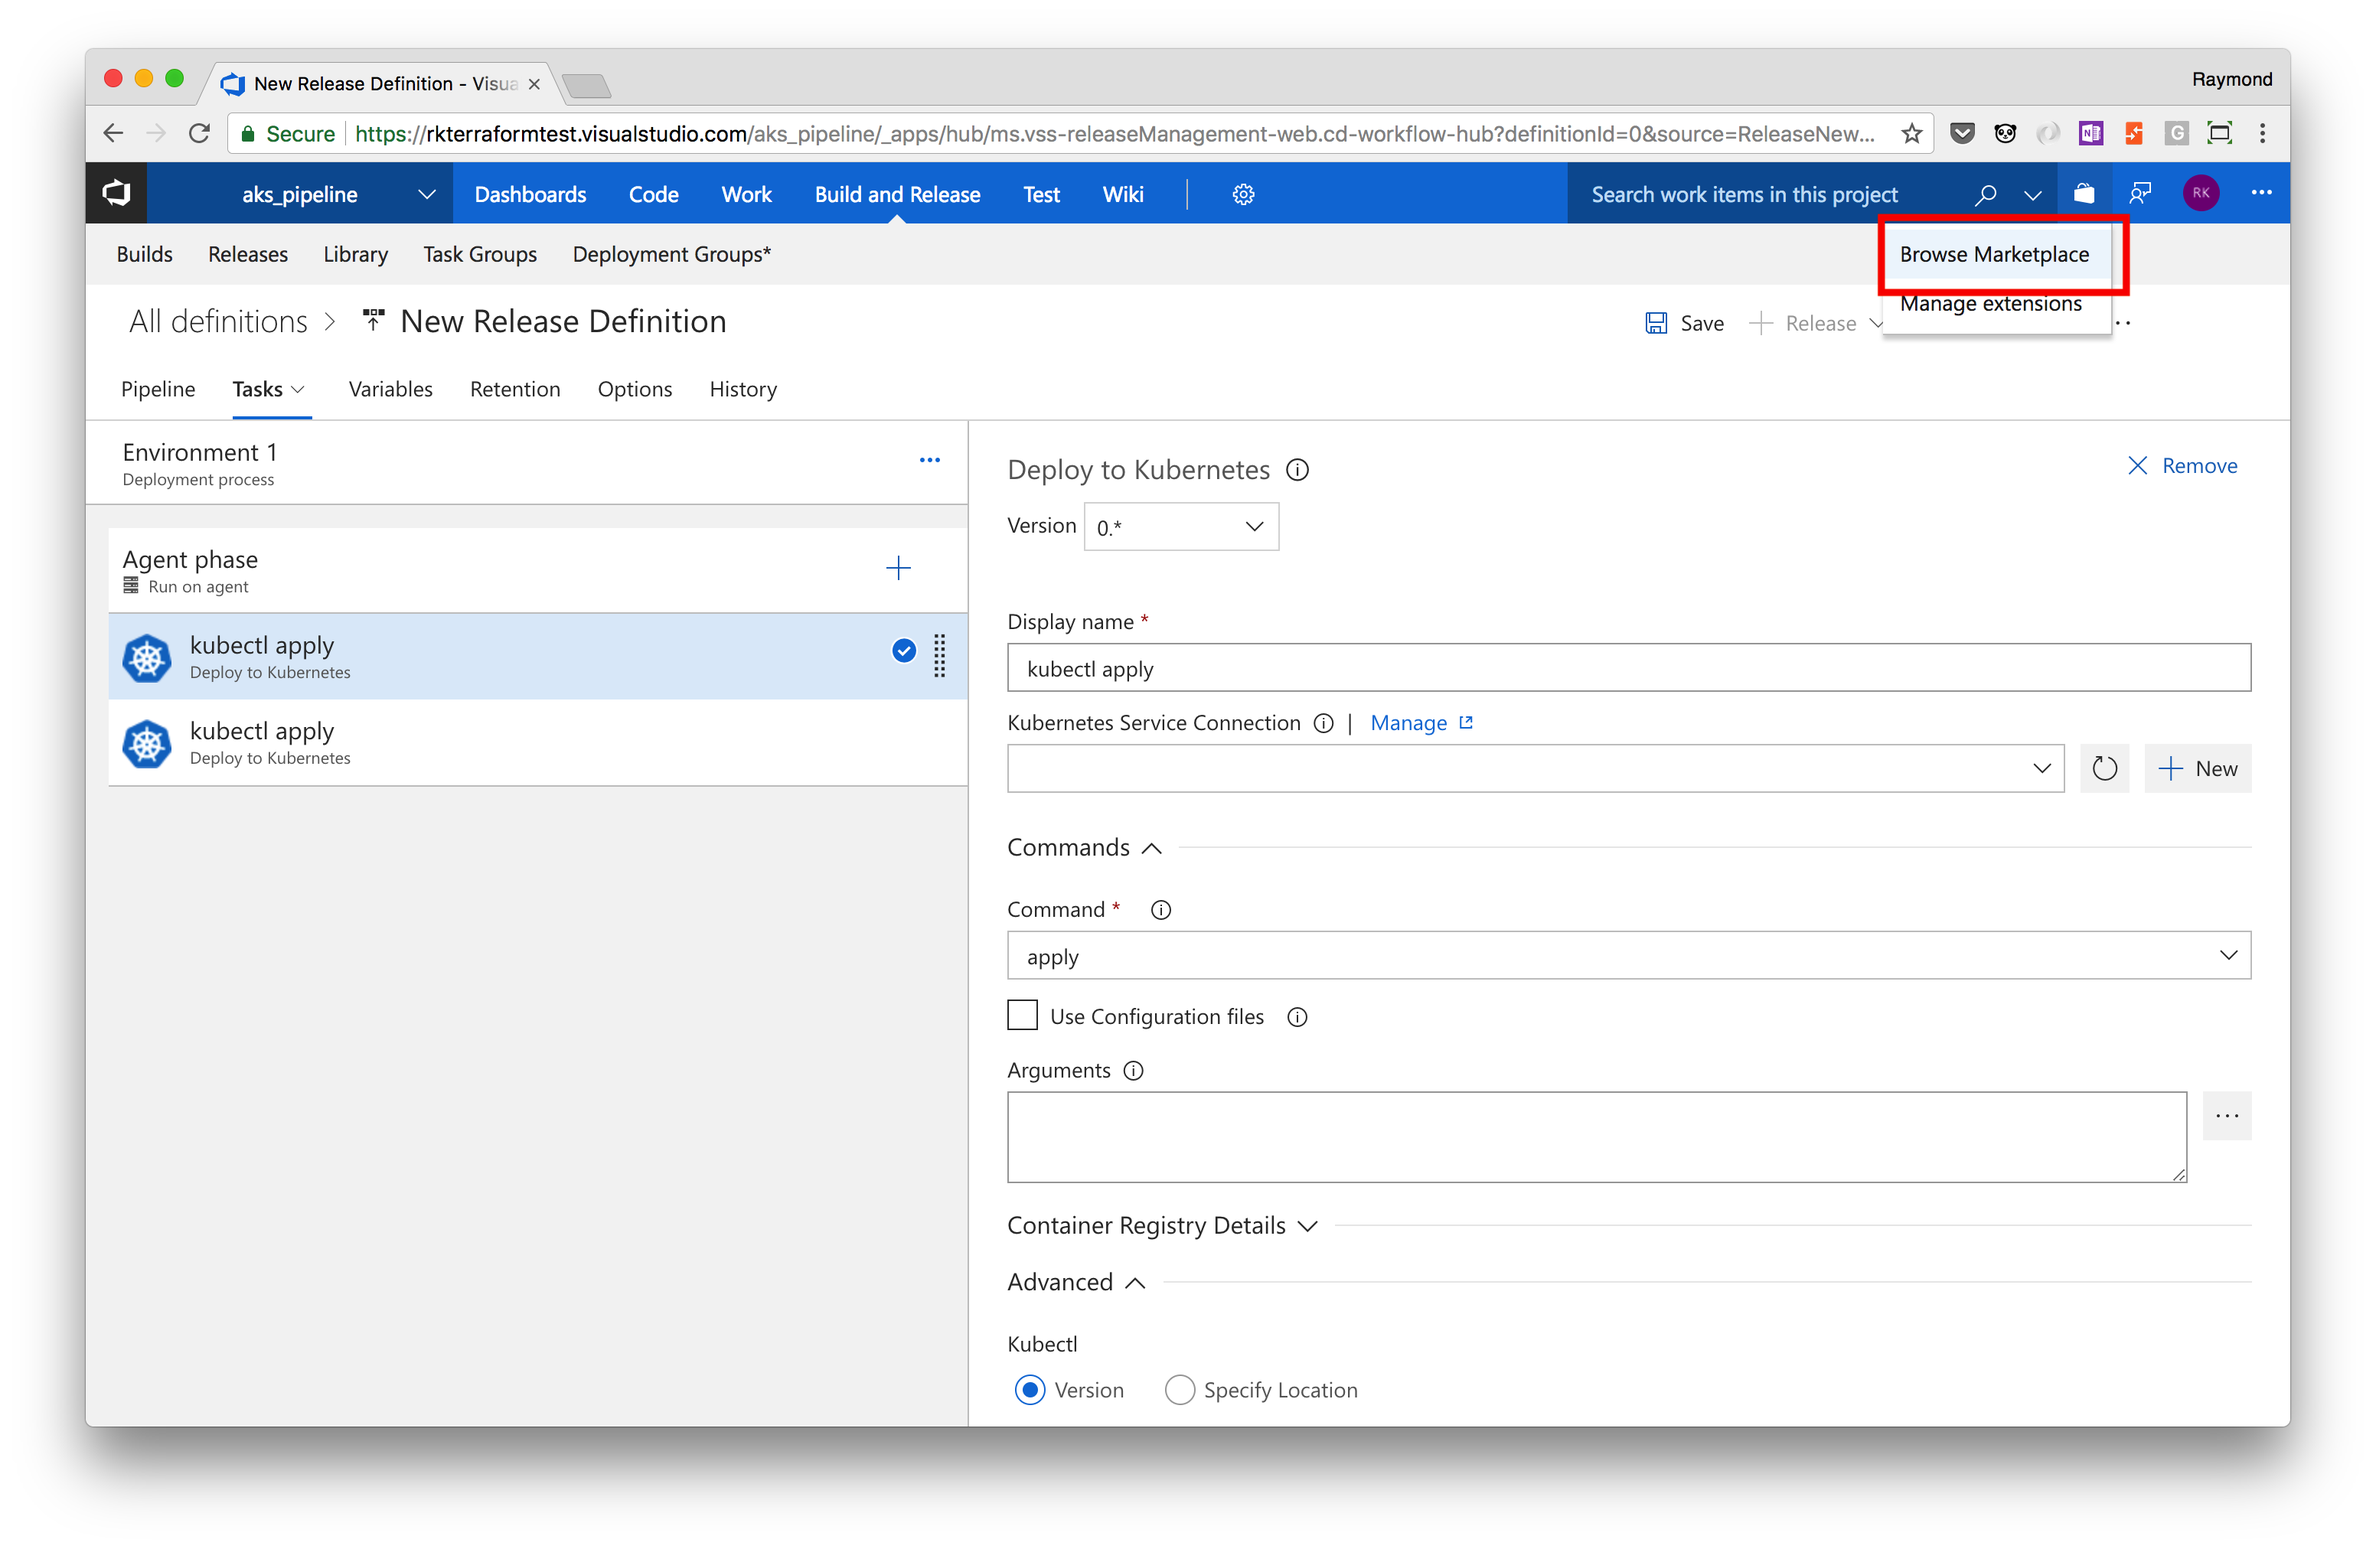
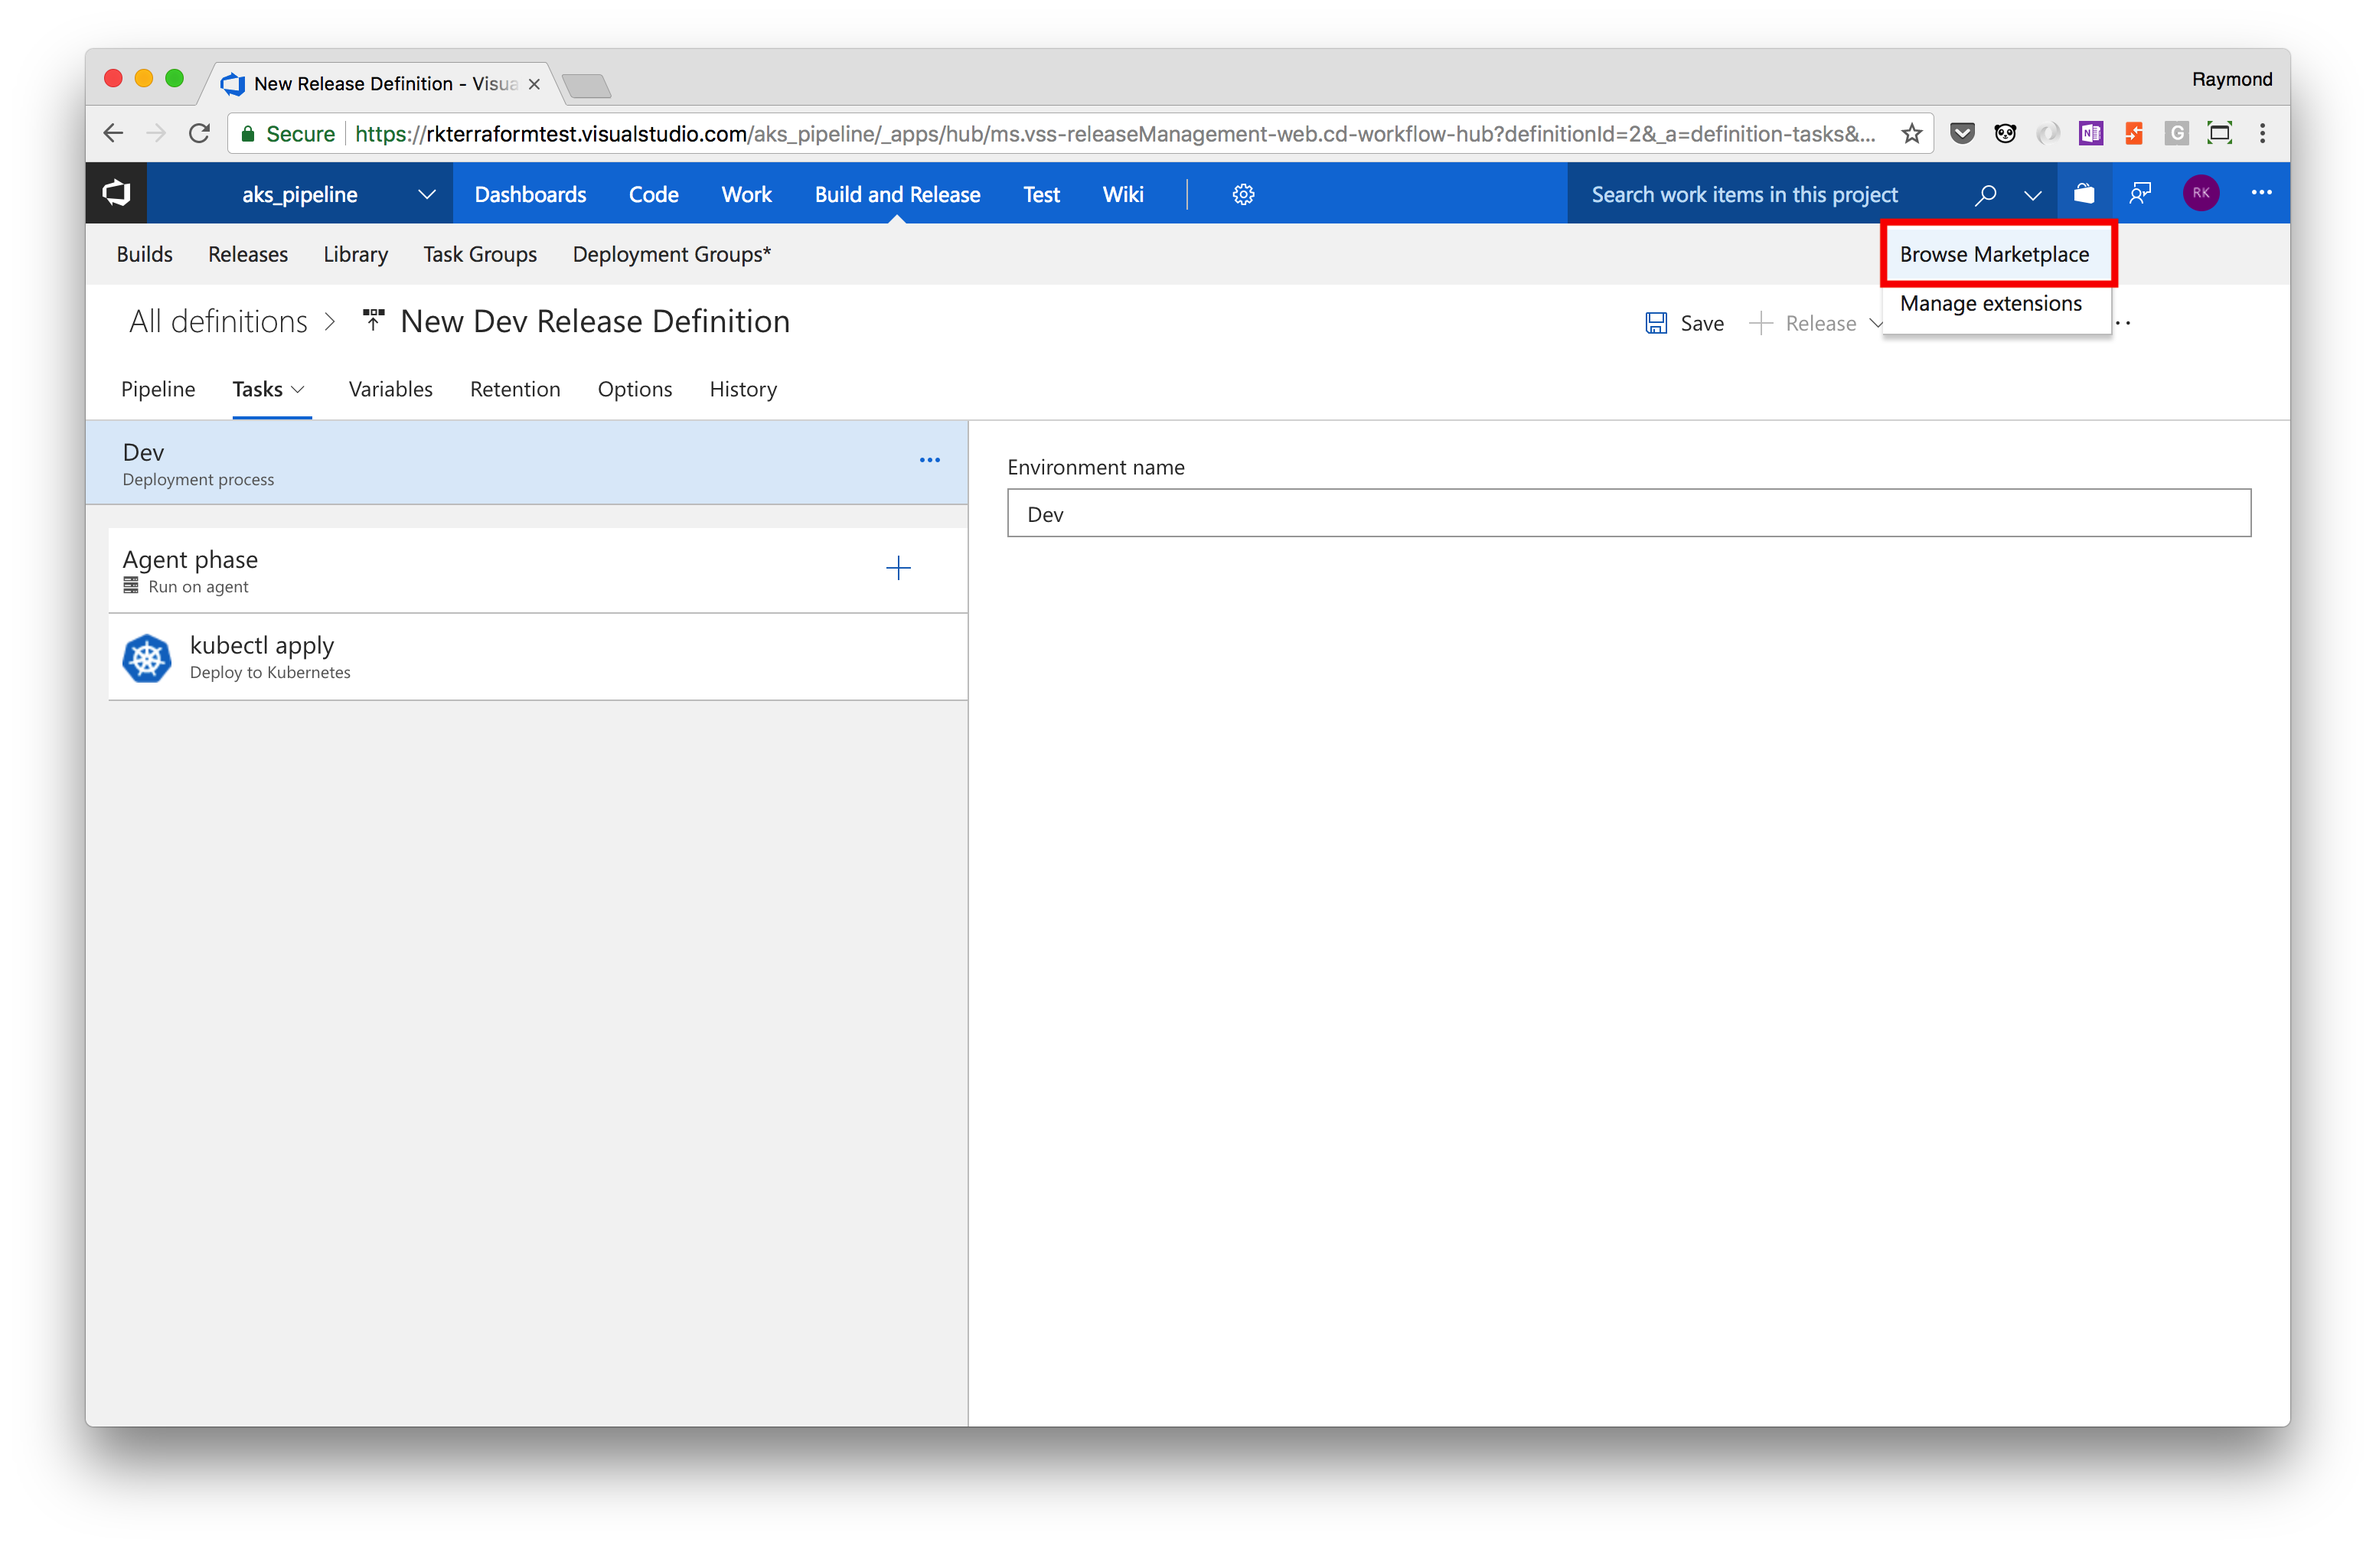
complete exercise 1

diff --git a/hol-content/03-build_vsts_cd.md b/hol-content/03-build_vsts_cd.md
@@ -7,10 +7,20 @@ In this portion of the lab we will be creating the Continuous Deployment (CD) pi
 1. ***Create Empty Release Pipeline***
 
 * Hover over the **Build and Release** navigation item near the top of the VSTS window. You will see a list of drop-down options, click on **Releases**.
+* ![](img/new_release.png)
 * Click on **New definition** to create a new Release.
-* Enter **Kubernetes** in the search box.
-* Hover over the **Deploy to Kubernetes cluster** item and click on **Apply** twice to add two Kubernetes tasks.
-* Browse the VSTS Marketplace (we will install an extension from the marketplace)
+* ![](img/new_release_definition.png)
+* Enter **Kubernetes** in the search box, hover over the **Deploy to Kubernetes cluster** item and click on **Apply** to add a **Deploy to Kubernetes** task.
+* ![](img/add_kubernetes_task.png)
+* Name your new release pipline environment "**Dev**"
+* ![](img/name_environment.png)
+* Rename your release pipeline
+* ![](img/rename_release.png)
+* Let's add more tasks to your release pipeline by clicking the "**1 phase, 1 task**" link
+* ![](img/view_tasks.png)
+* We will now click on the "**+**" symbol next to Agent Phase to add an additional "**Deploy to Kubernetes**" task
+* ![](img/add_additional_kubernetes_task.png)
+* Next, browse the VSTS Marketplace (we will install an extension from the marketplace)
 * ![marketplace](img/browse_marketplace.png)
 * Enter **K8s** in the search box, and click on the **Kubernetes Extension** by Tsuyoshi Ushio
 * ![search k8s](img/search_k8s.png)
@@ -19,8 +29,9 @@ In this portion of the lab we will be creating the Continuous Deployment (CD) pi
 * Install the extension into your VSTS account
 * ![install_extension](img/Install_extension.png)
 * Hover over the **k8s downloader** item and click on **Add** once to add a kubectl downloader task.
-* Enter **bash** in the search box.
-* Hover over the **Shell Script** item and click on **Add** once to add a shell script execution task.
+* ![](img/add_downloader_task.png)
+* Enter **bash** in the search box, then find the **Shell Script** item and click on **Add** to add a shell script execution task
+* ![](img/add_shell_task.png)
 * You should now have 4 tasks under the **Agent phase**.
 
 2. ***Add Dev Environment***
